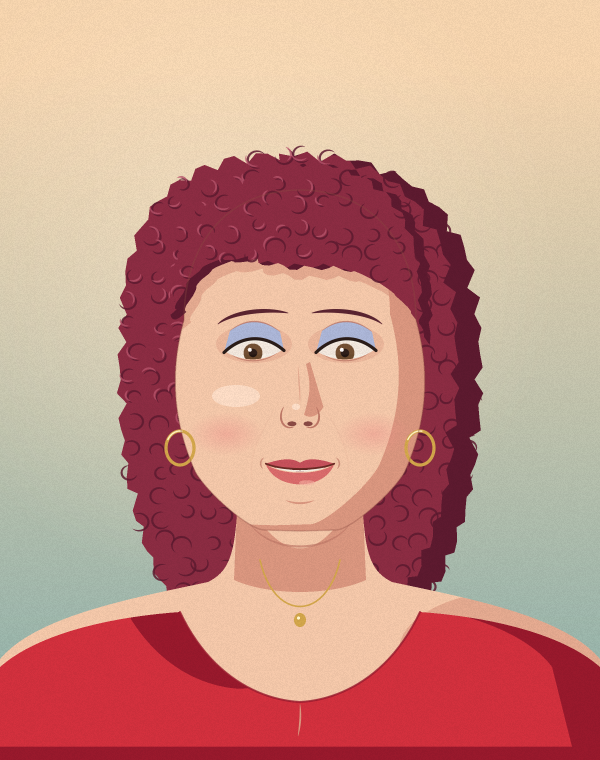
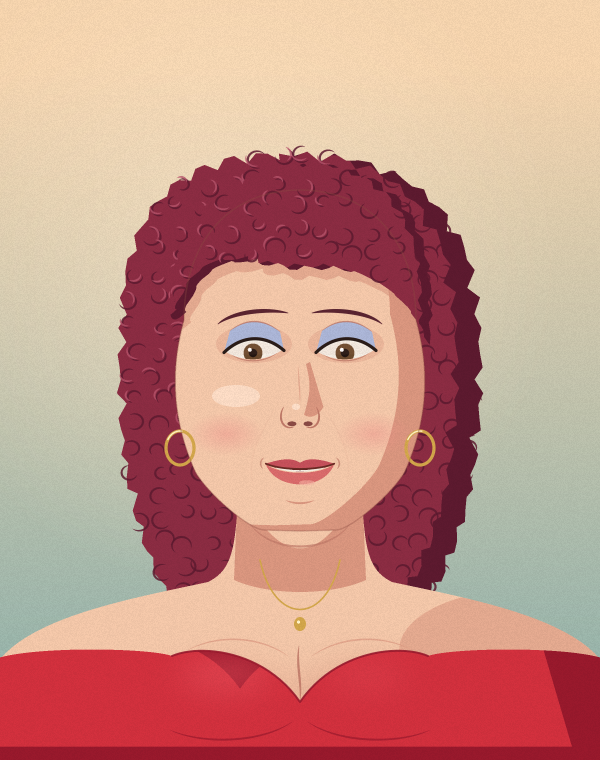
Magda dressed for attention: fitted low-cut top and short skirt at work, the red dress at the party, a curvier figure; portrait in an off-shoulder sweetheart dress. Review viewer.

Changed region(s): [[0.0, 0.7868, 1.0, 0.9684], [0.45, 0.7868, 0.54, 0.8474]]

diff --git a/tools/OfficeMan.ArtGen/Sprites/PixelPeople.cs b/tools/OfficeMan.ArtGen/Sprites/PixelPeople.cs
@@ -3,7 +3,7 @@ using OfficeMan.ArtGen.Raster;
 namespace OfficeMan.ArtGen.Sprites;
 
 public enum HairStyle { Messy, Perm, SweptBack, Bun, Combover, Bald }
-public enum TopStyle { Shirt, ShirtTie, Cardigan, Dress, SuitOpen, Suit, Vest }
+public enum TopStyle { Shirt, ShirtTie, Cardigan, Dress, SuitOpen, Suit, Vest, LowTop }
 
 /// <summary>A small walking person, described rather than drawn.</summary>
 public sealed record PersonSpec(
@@ -14,7 +14,8 @@ public sealed record PersonSpec(
     string Bottom, string BottomShade, string Shoes,
     int Build = 6, int Height = 2, bool Glasses = false, bool Earrings = false, bool Belly = false,
     string? Accent = null, string? GreyAt = null, string GlassesColor = "3a2e28", string? Moustache = null, bool Cigarette = false,
-    bool Veil = false, bool Sash = false);
+    bool Veil = false, bool Sash = false,
+    bool Curvy = false, bool LowNeck = false, string? Legs = null);
 
 /// <summary>
 /// Pixel people for the walkable world: 28×60 frames, people 47-52 px tall (about 30 px per metre), facing right (flip for left).
@@ -29,7 +30,13 @@ public static class PixelPeople
         TopStyle.Shirt, "b9cbdc", "8ea4ba", "4a4e58", "363a42", "2a2420", Build: 6, Height: 2, Belly: true);
 
     public static readonly PersonSpec Magda = new("magda", "f2c4a6", "d4977e", HairStyle.Perm, "a3304a", "6e1a33",
-        TopStyle.Cardigan, "e48aa0", "b8607a", "3c3a4a", "2a2836", "5a2a2a", Build: 8, Height: 0, Earrings: true, Belly: true);
+        TopStyle.LowTop, "e8609a", "b24476", "2a2430", "1c1822", "8a1a2a", Build: 8, Height: 0, Earrings: true, Belly: true,
+        Curvy: true, LowNeck: true, Legs: "f2c4a6");
+
+    /// <summary>Magda at the party: the red dress, tight, low-cut, above the knee; red heels.</summary>
+    public static readonly PersonSpec MagdaParty = new("magda_party", "f2c4a6", "d4977e", HairStyle.Perm, "a3304a", "6e1a33",
+        TopStyle.Dress, "d0303d", "97192c", "d0303d", "97192c", "a01020", Build: 8, Height: 0, Earrings: true, Belly: true,
+        Curvy: true, LowNeck: true, Legs: "f2c4a6");
 
     public static readonly PersonSpec Zdenka = new("zdenka", "ecd3c4", "c4a196", HairStyle.Bun, "a6a2a8", "77737a",
         TopStyle.Suit, "6c6e72", "4a4c50", "6c6e72", "4a4c50", "2a2828", Build: 5, Height: 4, Glasses: true, Accent: "ece7dc", GlassesColor: "c9a65a");
@@ -72,7 +79,7 @@ public static class PixelPeople
     public static readonly PersonSpec Waitress = new("waitress", "f0c8b0", "cca088", HairStyle.Bun, "2a1e18", "1a120e",
         TopStyle.Shirt, "eeeeee", "c8c8c8", "222226", "16161a", "141414", Build: 5, Height: 2);
 
-    public static IEnumerable<PersonSpec> All => new[] { Teo, Magda, Zdenka, Kornel, Viktor, Stojan, Ramona, Laci, Adrian, Maarten, Felicity, Denisa, HenBlonde, HenDark, Waitress };
+    public static IEnumerable<PersonSpec> All => new[] { Teo, Magda, MagdaParty, Zdenka, Kornel, Viktor, Stojan, Ramona, Laci, Adrian, Maarten, Felicity, Denisa, HenBlonde, HenDark, Waitress };
 
     /// <summary>People who also get a sitting sheet ("name_sit"): sitting on a chair, facing right.</summary>
     public static IEnumerable<PersonSpec> Sitters => new[] { Zdenka, Maarten, Felicity, HenBlonde, HenDark };
@@ -132,8 +139,8 @@ public static class PixelPeople
         {
             // Legs: back leg darker. Stride moves them apart.
             int backX = cx - 2 - legStride, frontX = cx + 1 + legStride;
-            Rect(backX - 1, hip, backX + 1, foot - 2, p.BottomShade);
-            Rect(frontX - 1, hip, frontX + 1, foot - 2, p.Bottom);
+            Rect(backX - 1, hip, backX + 1, foot - 2, p.Legs is null ? p.BottomShade : p.SkinShade);
+            Rect(frontX - 1, hip, frontX + 1, foot - 2, p.Legs ?? p.Bottom);
             Rect(backX - 1, foot - 1, backX + 2, foot, p.Shoes);
             Rect(frontX - 1, foot - 1, frontX + 2, foot, p.Shoes);
         }
@@ -143,15 +150,38 @@ public static class PixelPeople
 
         // Arms behind the body first (the far arm), swinging against the legs.
         int swing = walking ? -legStride / 2 : 0;
-        Rect(cx - w - 1 + swing, shoulder + 1, cx - w + 1 + swing, hip + 1, p.TopShade);
+        int armIn = p.Curvy ? 1 : 0;
+        Rect(cx - w - 1 + armIn + swing, shoulder + 1, cx - w + 1 + armIn + swing, hip + 1, p.TopShade);
         Px(cx - w + swing, hip + 2, p.SkinShade);
 
         // Torso.
-        Rect(cx - w + 1, shoulder, cx + w - 1, hip, p.TopColor);
-        Rect(cx - w + 1, shoulder, cx - w + 2, hip, p.TopShade);  // shaded far side
+        if (p.Curvy)
+            for (int y = shoulder; y <= hip; y++)
+            {
+                double t = (y - shoulder) / (double)Math.Max(1, hip - shoulder);
+                int half = t < 0.12 ? w - 2 : t < 0.5 ? w : t < 0.7 ? w - 1 : w;
+                Rect(cx - half + 1, y, cx + half - 1, y, p.TopColor);
+                Rect(cx - half + 1, y, cx - half + 2, y, p.TopShade);
+            }
+        else
+        {
+            Rect(cx - w + 1, shoulder, cx + w - 1, hip, p.TopColor);
+            Rect(cx - w + 1, shoulder, cx - w + 2, hip, p.TopShade);  // shaded far side
+        }
         if (p.Belly) { Rect(cx + w, shoulder + torsoLen / 2, cx + w, hip - 1, p.TopColor); }
         switch (p.Top)
         {
+            case TopStyle.Dress when p.Curvy:
+                for (int y = hip - 2; y <= hip + (sitting ? 3 : legLen * 40 / 100); y++)
+                    Rect(cx - w, y, cx + w + 1, y, y > hip + 1 && y % 4 == 0 ? p.TopShade : p.TopColor);
+                Rect(cx - w, hip - 2, cx - w + 1, hip + (sitting ? 3 : legLen * 40 / 100), p.TopShade);
+                break;
+            case TopStyle.LowTop:
+                // A fitted top tucked into a short, tight skirt.
+                for (int y = hip - 1; y <= hip + (sitting ? 3 : legLen * 35 / 100); y++)
+                    Rect(cx - w, y, cx + w + 1, y, p.Bottom);
+                Rect(cx - w, hip - 1, cx - w + 1, hip + (sitting ? 3 : legLen * 35 / 100), p.BottomShade);
+                break;
             case TopStyle.Dress:
                 for (int y = hip; y <= hip + (sitting ? 3 : legLen * 55 / 100); y++)
                     Rect(cx - w + 1 - (y - hip) / 4, y, cx + w - 1 + (y - hip) / 4 + (p.Belly ? 1 : 0), y, p.TopColor);
@@ -192,10 +222,29 @@ public static class PixelPeople
             Rect(cx - w + 1, hip, cx + w - 1, hip, p.BottomShade);
 
         // Near arm, swinging the other way, with a hand.
-        Rect(cx + w - 1 - swing, shoulder + 1, cx + w + 1 - swing, hip + 1, p.Top is TopStyle.ShirtTie or TopStyle.Vest ? p.Skin : p.TopColor);
+        Rect(cx + w - 1 - armIn - swing, shoulder + 1, cx + w + 1 - armIn - swing, hip + 1, p.Top is TopStyle.ShirtTie or TopStyle.Vest ? p.Skin : p.TopColor);
         if (p.Top is TopStyle.ShirtTie) Rect(cx + w - 1 - swing, shoulder + 1, cx + w + 1 - swing, shoulder + 3, p.TopColor); // short sleeve
         Px(cx + w - swing, hip + 2, p.Skin);
         Px(cx + w + 1 - swing, hip + 2, p.Skin);
+        if (p.LowNeck)
+        {
+            // A low neckline: skin in a deep V, the line of the cleavage.
+            for (int i = 0; i < 6; i++) Rect(cx - 1 + i / 2, shoulder + i, cx + 4 - i / 2, shoulder + i, p.Skin);
+            Px(cx + 2, shoulder + 3, p.SkinShade);
+            Px(cx + 2, shoulder + 4, p.SkinShade);
+        }
+        if (p.Curvy)
+        {
+            // The bust, past the line of the arm; a shadow under it.
+            int bx = cx + w + 1 - armIn - swing;
+            Rect(bx, shoulder + 3, bx, shoulder + 9, p.TopColor);
+            Rect(bx + 1, shoulder + 4, bx + 1, shoulder + 8, p.TopColor);
+            Rect(bx + 2, shoulder + 5, bx + 2, shoulder + 7, p.TopColor);
+            Px(bx + 2, shoulder + 7, p.TopShade);
+            Px(bx + 1, shoulder + 8, p.TopShade);
+            Px(bx, shoulder + 10, p.TopShade);
+            if (p.LowNeck) { Px(bx, shoulder + 3, p.Skin); Px(bx + 1, shoulder + 4, p.Skin); }
+        }
 
         // Neck and head, three-quarter view facing right.
         Rect(cx, headBottom + 1, cx + 2, shoulder - 1, p.SkinShade);

diff --git a/tools/OfficeMan.ArtGen/Drawn/Flat/FlatFace.cs b/tools/OfficeMan.ArtGen/Drawn/Flat/FlatFace.cs
@@ -4,7 +4,7 @@ using OfficeMan.ArtGen.Raster;
 namespace OfficeMan.ArtGen.Drawn.Flat;
 
 public enum FlatHair { SweptBack, Bun, Combover, BaldFringe, Curls }
-public enum FlatClothes { SuitOpenCollar, SuitBlouse, ShirtTie, Vest, Scoop }
+public enum FlatClothes { SuitOpenCollar, SuitBlouse, ShirtTie, Vest, Scoop, Sweetheart }
 public enum FlatGlasses { None, Round, Half }
 
 /// <summary>
@@ -253,6 +253,33 @@ public static class FlatFace
                     s.Stroke(PathBuilder.From(Cx - 40, p.ChinY + 30).C(Cx - 26, p.ChinY + 92, Cx + 26, p.ChinY + 92, Cx + 40, p.ChinY + 30), 1.6, Hex("d1a54a"));
                     s.Fill(Shapes.Ellipse(Cx, p.ChinY + 90, 6, 7), Hex("d1a54a"));
                     s.Fill(Shapes.Ellipse(Cx - 1.5, p.ChinY + 88, 1.6, 1.6), Hex("fff2c8"));
+                }
+                break;
+            }
+            case FlatClothes.Sweetheart:
+            {
+                // Bare shoulders; the dress curves over each side of the bust and dips between.
+                const double n = 652;   // where the neckline meets the shoulders
+                s.SoftFill(Shapes.Ellipse(Cx - 70, 704, 76, 44), Hex(p.SkinShade), 0.35, 16, body);
+                s.SoftFill(Shapes.Ellipse(Cx + 70, 704, 76, 44), Hex(p.SkinShade), 0.5, 16, body);
+                s.Stroke(PathBuilder.From(Cx - 1, n - 6).C(Cx - 4, n + 14, Cx + 2, n + 30, Cx, n + 48), 2.4, Hex(p.SkinDeep), 0.85, taper: true);
+                s.Stroke(PathBuilder.From(Cx - 112, n - 2).C(Cx - 82, n - 18, Cx - 40, n - 16, Cx - 12, n + 4), 1.6, Hex(p.SkinShade), 0.7, taper: true);
+                s.Stroke(PathBuilder.From(Cx + 112, n - 2).C(Cx + 82, n - 18, Cx + 40, n - 16, Cx + 12, n + 4), 1.6, Hex(p.SkinShade), 0.7, taper: true);
+                var dress = PathBuilder.From(Cx - sh - 40, 760).L(Cx - sh - 10, n + 6).C(Cx - sh + 30, n - 6, Cx - 150, n - 4, Cx - 128, n + 4)
+                    .C(Cx - 100, n - 8, Cx - 36, n - 2, Cx, n + 50).C(Cx + 36, n - 2, Cx + 100, n - 8, Cx + 128, n + 4)
+                    .C(Cx + 150, n - 4, Cx + sh - 30, n - 6, Cx + sh + 10, n + 6).L(Cx + sh + 40, 760).Points;
+                TwoTone(s, dress, p.Cloth, p.ClothShade, 60);
+                // The fabric rounds over the bust: a light on the upper curve, a fold under it.
+                s.SoftFill(Shapes.Ellipse(Cx - 74, n + 22, 46, 18), Hex("e8505c"), 0.55, 14, dress);
+                s.SoftFill(Shapes.Ellipse(Cx + 66, n + 24, 40, 16), Hex("e8505c"), 0.3, 14, dress);
+                s.Stroke(PathBuilder.From(Cx - 130, n + 78).C(Cx - 100, n + 92, Cx - 40, n + 92, Cx - 8, n + 70), 2, Hex(p.ClothShade), 0.7, taper: true);
+                s.Stroke(PathBuilder.From(Cx + 130, n + 78).C(Cx + 100, n + 92, Cx + 40, n + 92, Cx + 8, n + 70), 2, Hex(p.ClothShade), 0.7, taper: true);
+                s.Stroke(PathBuilder.From(Cx - 128, n + 4).C(Cx - 100, n - 8, Cx - 36, n - 2, Cx, n + 50).C(Cx + 36, n - 2, Cx + 100, n - 8, Cx + 128, n + 4), 2, Hex(p.ClothShade), 0.9);
+                if (p.Necklace)
+                {
+                    s.Stroke(PathBuilder.From(Cx - 40, p.ChinY + 30).C(Cx - 26, p.ChinY + 96, Cx + 26, p.ChinY + 96, Cx + 40, p.ChinY + 30), 1.6, Hex("d1a54a"));
+                    s.Fill(Shapes.Ellipse(Cx, p.ChinY + 94, 6, 7), Hex("d1a54a"));
+                    s.Fill(Shapes.Ellipse(Cx - 1.5, p.ChinY + 92, 1.6, 1.6), Hex("fff2c8"));
                 }
                 break;
             }

diff --git a/game/ReviewViewer.cs b/game/ReviewViewer.cs
@@ -1,0 +1,72 @@
+using System.Collections.Generic;
+using System.IO;
+using Godot;
+
+namespace OfficeMan.Game;
+
+/// <summary>
+/// Review aid: shows the screenshots Review.bat captured, one at a time, full screen, with a label.
+/// ← → (or the d-pad) to step, Esc to close. Reads a list file of lines "file;label".
+/// </summary>
+public partial class ReviewViewer : Control
+{
+    private readonly List<(Texture2D image, string label)> _shots = new();
+    private TextureRect _picture = null!;
+    private Label _caption = null!;
+    private int _index;
+
+    public ReviewViewer(string listFile)
+    {
+        string dir = Path.GetDirectoryName(listFile) ?? ".";
+        foreach (string raw in File.ReadAllLines(listFile))
+        {
+            string line = raw.Trim();
+            int split = line.IndexOf(';');
+            if (split <= 0) continue;
+            string path = Path.Combine(dir, line[..split].Trim());
+            if (!File.Exists(path)) continue;
+            var image = Image.LoadFromFile(path);
+            if (image is not null) _shots.Add((ImageTexture.CreateFromImage(image), line[(split + 1)..].Trim()));
+        }
+    }
+
+    public override void _Ready()
+    {
+        SetAnchorsPreset(LayoutPreset.FullRect);
+        var backdrop = new ColorRect { Color = new Color(0.05f, 0.05f, 0.06f) };
+        backdrop.SetAnchorsPreset(LayoutPreset.FullRect);
+        AddChild(backdrop);
+
+        _picture = new TextureRect { ExpandMode = TextureRect.ExpandModeEnum.IgnoreSize, StretchMode = TextureRect.StretchModeEnum.KeepAspectCentered };
+        _picture.SetAnchorsPreset(LayoutPreset.FullRect);
+        AddChild(_picture);
+
+        var bar = new PanelContainer { Position = new Vector2(0, 1080 - 64), Size = new Vector2(1920, 64) };
+        bar.AddThemeStyleboxOverride("panel", new StyleBoxFlat { BgColor = new Color(0, 0, 0, 0.75f), ContentMarginLeft = 28, ContentMarginTop = 14 });
+        _caption = new Label();
+        _caption.AddThemeFontSizeOverride("font_size", 26);
+        _caption.AddThemeColorOverride("font_color", new Color(1f, 0.92f, 0.78f));
+        bar.AddChild(_caption);
+        AddChild(bar);
+        Show(0);
+    }
+
+    private void Show(int index)
+    {
+        if (_shots.Count == 0)
+        {
+            _caption.Text = "No screenshots found. Run Review.bat first.";
+            return;
+        }
+        _index = (index + _shots.Count) % _shots.Count;
+        _picture.Texture = _shots[_index].image;
+        _caption.Text = $"{_index + 1} / {_shots.Count}   ·   {_shots[_index].label}        ← →  to look through   ·   Esc to close";
+    }
+
+    public override void _UnhandledInput(InputEvent e)
+    {
+        if (e.IsActionPressed("ui_right") || e.IsActionPressed("move_right") || e.IsActionPressed("interact")) Show(_index + 1);
+        else if (e.IsActionPressed("ui_left") || e.IsActionPressed("move_left")) Show(_index - 1);
+        else if (e.IsActionPressed("menu") || e.IsActionPressed("cancel")) GetTree().Quit();
+    }
+}

diff --git a/game/Main.cs b/game/Main.cs
@@ -89,11 +89,19 @@ public partial class Main : Control
     private string? _shotPath;
     private string? _lookRoom;
     private string? _shotMenu;
+    private bool _reviewOnly;   // showing Review.bat's screenshots, not playing
     private int _lookAt = -1;
 
     public override void _Ready()
     {
         var args = OS.GetCmdlineUserArgs();
+        if (args.Length > 1 && args[0] == "--review")
+        {
+            Controls.Register();
+            _reviewOnly = true;
+            AddChild(new ReviewViewer(args[1]));
+            return;
+        }
         if (args.Length > 2 && args[0] == "--stitch")
         {
             Stitch(args[1], args[2..]);
@@ -621,6 +629,7 @@ public partial class Main : Control
 
     public override void _UnhandledInput(InputEvent e)
     {
+        if (_reviewOnly) return;
         if (e.IsActionPressed("quicksave")) { Save("quicksave"); Toast("Saved"); return; }
         if (e.IsActionPressed("quickload")) { if (Load("quicksave")) Toast("Loaded"); return; }
         if (MenuInput(e)) { GetViewport().SetInputAsHandled(); return; }
@@ -645,6 +654,7 @@ public partial class Main : Control
 
     public override void _Process(double delta)
     {
+        if (_reviewOnly) return;
         LayoutMenu();
         if (_typing && _mode != Mode.Menu)
         {

diff --git a/tools/OfficeMan.ArtGen/Program.cs b/tools/OfficeMan.ArtGen/Program.cs
@@ -159,6 +159,15 @@ if (sets.Contains("sprites"))
     for (int i = 0; i < people.Count; i++) preview.Draw(PixelPeople.Sheet(people[i]), 0, i * PixelPeople.FrameH);
     Png.Save(preview.Scaled(6), Path.Combine(outDir, "sprites_preview.png"));
 
+    // One person up close: idle and walk frames side by side, big enough to judge.
+    foreach (var person in new[] { PixelPeople.Magda, PixelPeople.MagdaParty })
+    {
+        var close = new Canvas(PixelPeople.FrameW * 3, PixelPeople.FrameH);
+        close.Fill(Rgb.Hex("8a8478"));
+        for (int f = 0; f < 3; f++) close.Draw(PixelPeople.Frame(person, f * 2), f * PixelPeople.FrameW, 0);
+        Png.Save(close.Scaled(10), Path.Combine(outDir, $"sprite_{person.Name}.png"));
+    }
+
     // The office with everyone in it, to judge scale.
     var room = OfficeRoom.Draw().Albedo;
     foreach (var (person, x, y) in new[] { (PixelPeople.Magda, 96, 200), (PixelPeople.Teo, 200, 236), (PixelPeople.Kornel, 284, 204), (PixelPeople.Zdenka, 360, 202), (PixelPeople.Viktor, 440, 160) })

diff --git a/tools/OfficeMan.ArtGen/Drawn/Flat/FlatCast.cs b/tools/OfficeMan.ArtGen/Drawn/Flat/FlatCast.cs
@@ -21,7 +21,7 @@ public static class FlatCast
         BrowColor = "5a2430", BrowWidth = 4.2,
         NoseLength = 0.78, NoseWidth = 0.9, MouthWidth = 30, LipFullness = 0.9, LipUpper = "c4505a", LipLower = "d86a6a",
         Hair = FlatHair.Curls, HairColor = "8a2c42", HairShade = "5c1a2f", HairLight = "b6536a",
-        Clothes = FlatClothes.Scoop, Cloth = "d0303d", ClothShade = "97192c",
+        Clothes = FlatClothes.Sweetheart, Cloth = "d0303d", ClothShade = "97192c",
         Earrings = true, Necklace = true, DoubleChin = true,
     };
 
